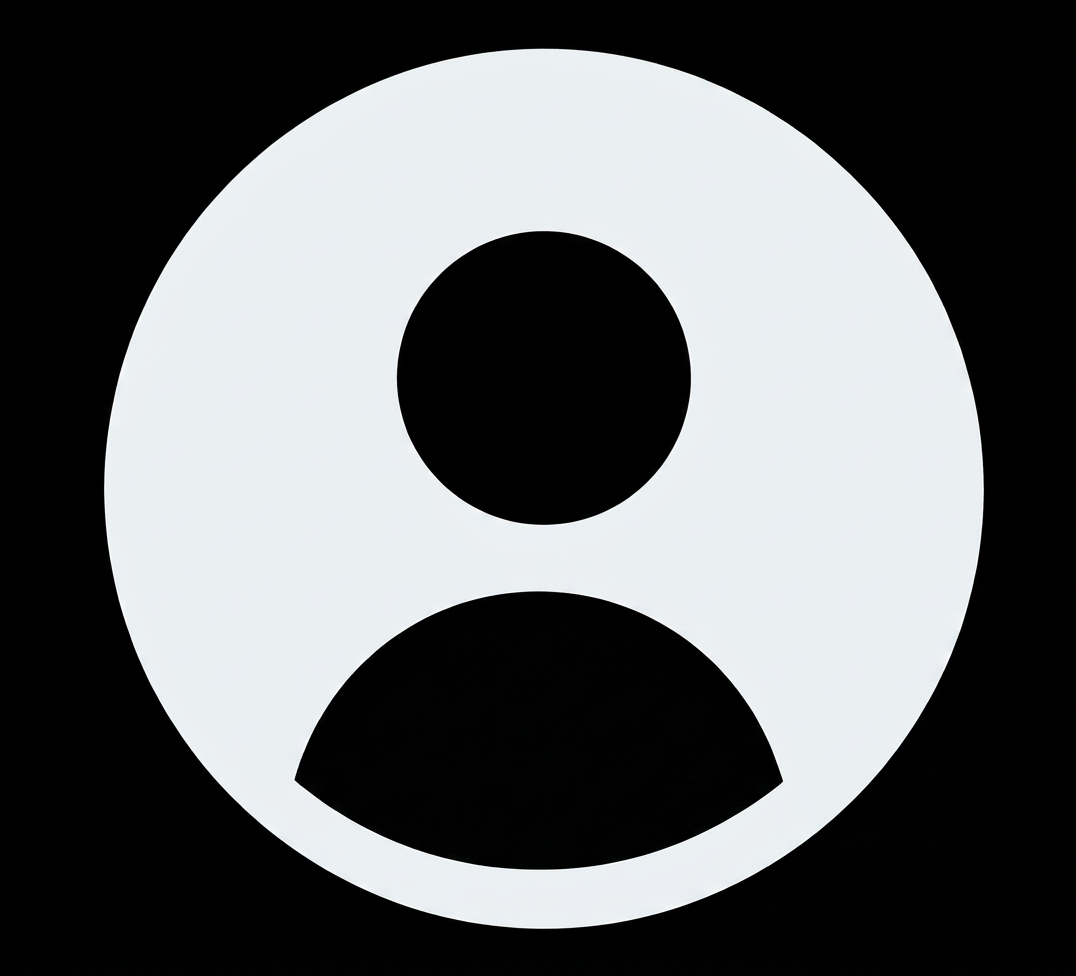
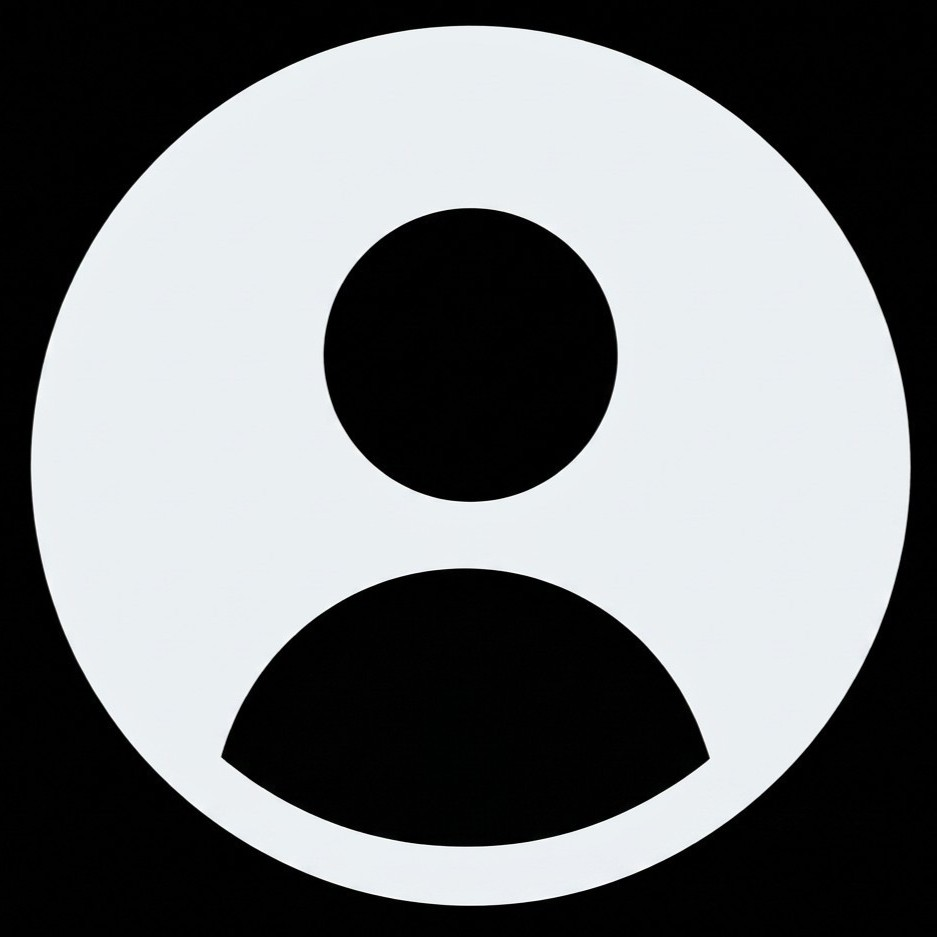
fix: estilizando o perfil.php

diff --git a/app/css/perfil.css b/app/css/perfil.css
@@ -2,7 +2,7 @@
 
 body {
     font-family: "Momo Trust Display", sans-serif;
-    margin: 0; 
+    margin: 0;
     padding-top: 70px;
 }
 
@@ -18,7 +18,7 @@ header {
     left: 0;
     width: 100%;
     box-sizing: border-box;
-    z-index: 1000; 
+    z-index: 1000;
 }
 
 
@@ -45,9 +45,9 @@ header {
     width: 32px;
     height: 32px;
     border-radius: 50%;
-    object-fit: cover;   
+    object-fit: cover;
     display: block;
-    flex-shrink: 0;     
+    flex-shrink: 0;
 }
 
 .menu a {
@@ -58,21 +58,17 @@ header {
 }
 
 .menu button {
-    background-color:#eef3f6;
+    background-color: #eef3f6;
     color: #000000;
     border: none;
     padding: 10px 18px;
     border-radius: 20px;
     cursor: pointer;
     font-size: 15px;
-     font-family: 'Momo Trust Display', sans-serif;
+    font-family: 'Momo Trust Display', sans-serif;
 }
 
-.btn-perfil{
-    
-}
-
-.quadro{
+.quadro {
     background-color: #d3e2ef;
     padding: 20px;
     border-radius: 25px;
@@ -81,22 +77,26 @@ header {
     width: 700px;
 }
 
-.quadro img{
+.quadro img {
     width: 100px;
+    margin: 20px;
+    border-radius: 100px;
 }
 
-.informacao h2{
-    background-color: #fffefe;
-    border-radius: 10px;
-    text-align: center;
-    padding: 4px;
-    border: solid 3px black;
+.topo{
+    display: flex;
 }
 
-.informacao p{
-    background-color: #fffefe;
-    border-radius: 10px;
-    text-align: center;
-    padding: 4px;
-    border: solid 2px black;
+.nome p {
+   font-size: 30px;
+}
+
+.email p{
+    font-size: 20px;
+    color: #989a9c;
+    margin-bottom: 10px;
+}
+
+.edita{
+    
 }

diff --git a/app/perfil.php b/app/perfil.php
@@ -47,24 +47,36 @@ if (!$usuario) {
     <div class="container">
 
         <div class="quadro">
-            <img src="imagens/perfil.jpg">
+            <div class="topo">
+                <img src="imagens/perfil.jpg">
 
-            <div class="informacao">
-                <h2>Nome de Usuário</h2>
+                <div class="informacao">
+                    <div class="nome">
+                        <p><?= htmlspecialchars($usuario['nome']) ?></p>
+                    </div>
+                    
+                    <div class="email">
+                        <p><?= htmlspecialchars($usuario['email']) ?></p>
+                    </div>
+                </div>
+            </div>
+
+            <div class="edita">
+                <h3>Nome</h3>
                 <p><?= htmlspecialchars($usuario['nome']) ?></p>
             </div>
 
-            <div>
-                <h3>Email</h3>
+            <div class="edita">
+                <h3>E-mail</h3>
                 <p><?= htmlspecialchars($usuario['email']) ?></p>
             </div>
 
-            <div>
+            <div class="edita">
                 <h3>Telefone</h3>
                 <p><?= htmlspecialchars($usuario['telefone']) ?></p>
             </div>
 
-            <div>
+            <div class="edita">
                 <h3>Tema</h3>
             </div>
         </div>
